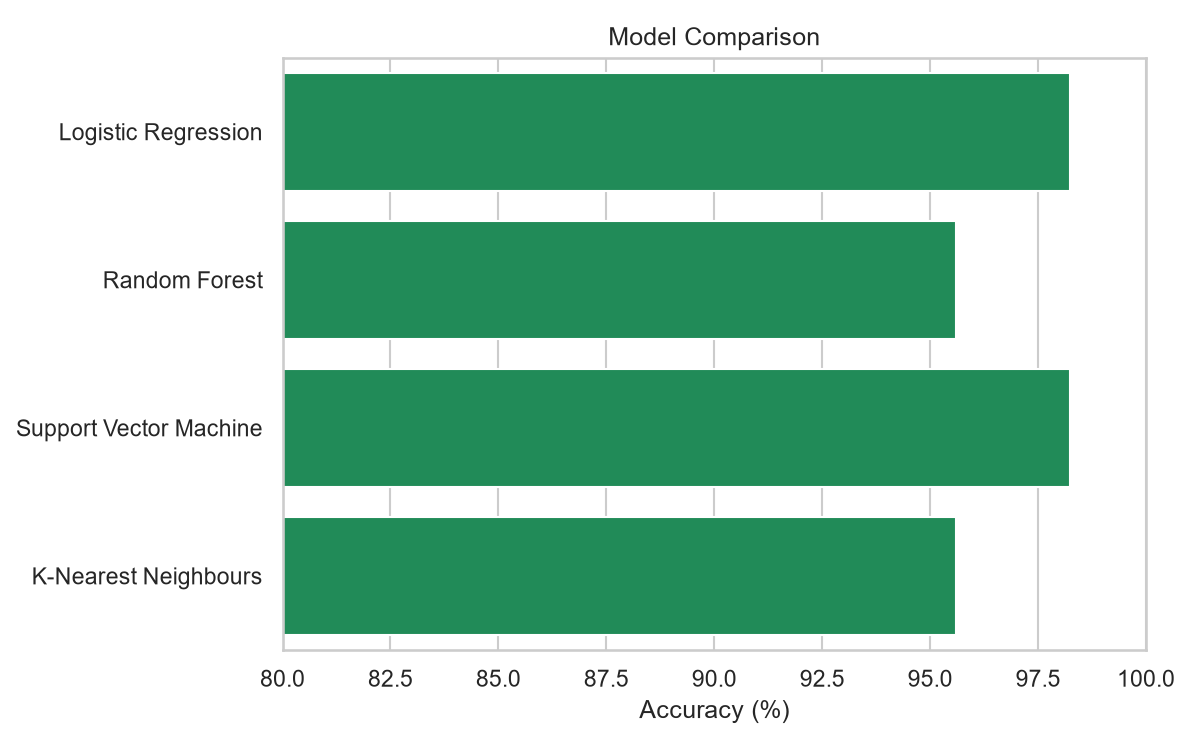
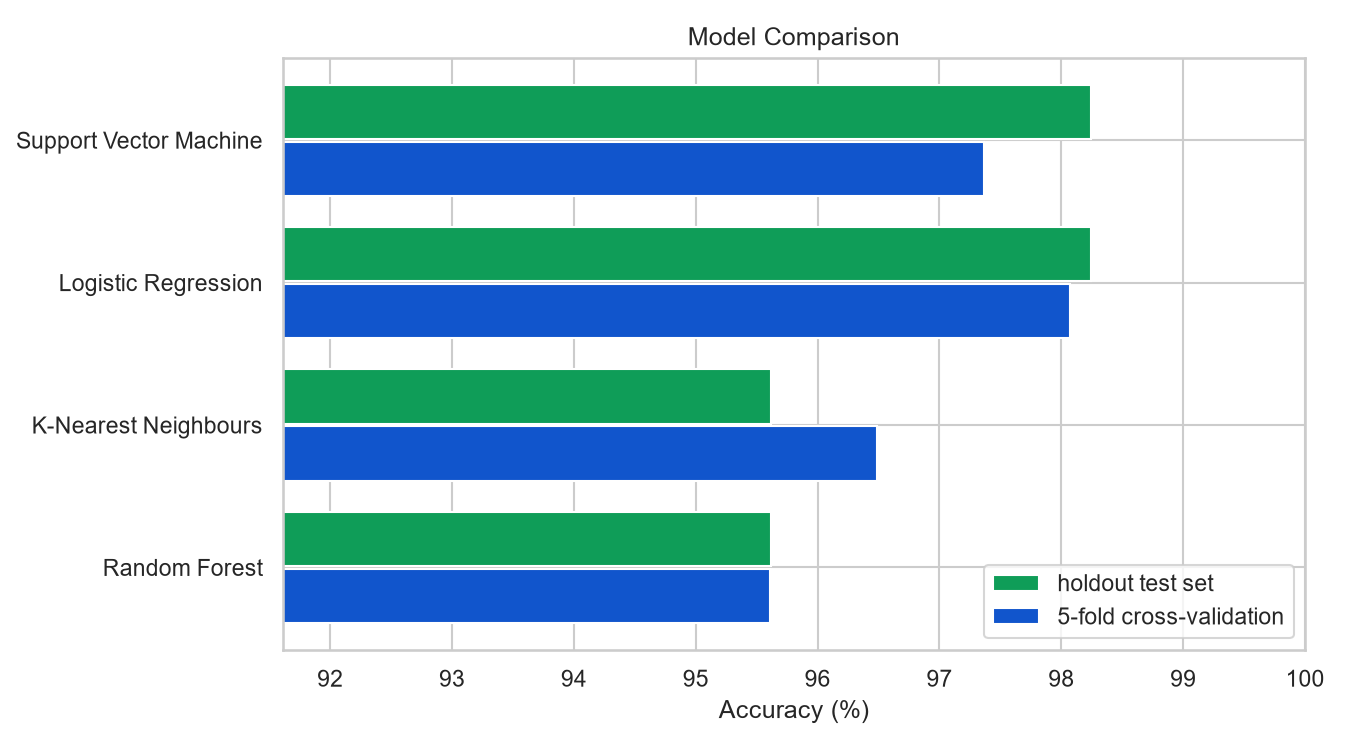
Score every model on precision, recall and F1, not accuracy alone
The comparison only printed accuracy, which is a weak way to rank models on a
114-row test set: one sample is 0.88%, and the split is 42 benign against 72
malignant, so a model that misses malignancies can still look fine.

Precision, recall and F1 are now reported against the malignant class, since
that is the error that costs something, and the table prints all four metrics
per model.

Adds 5-fold cross-validation next to the holdout score. A single split on 114
rows is thin evidence on its own, and the two disagree: Support Vector Machine
ties Logistic Regression at 98.25% on the holdout but drops to 97.36% +/- 1.47
across folds, while Logistic Regression holds at 98.07% +/- 0.65. That is now
the stated reason for shipping Logistic Regression, instead of a single number.

Also fixes the comparison chart, which was pinned to xlim(80, 100) and would
have silently clipped any model scoring below 80%. The axis now derives from the
data.

diff --git a/train.py b/train.py
@@ -11,10 +11,18 @@ import pandas as pd
 import matplotlib.pyplot as plt
 import seaborn as sns
 from sklearn.datasets import load_breast_cancer
-from sklearn.model_selection import train_test_split
+from sklearn.model_selection import cross_val_score, train_test_split
+from sklearn.pipeline import make_pipeline
 from sklearn.preprocessing import StandardScaler
 from sklearn.linear_model import LogisticRegression
-from sklearn.metrics import accuracy_score, classification_report, confusion_matrix
+from sklearn.metrics import (
+    accuracy_score,
+    classification_report,
+    confusion_matrix,
+    f1_score,
+    precision_score,
+    recall_score,
+)
 
 sns.set_theme(style="whitegrid")
 
@@ -116,18 +124,72 @@ models = {
 }
 
 print("\n=========== MODEL COMPARISON ===========")
+print(
+    f"{'Model':<24}{'Accuracy':>10}{'Precision':>11}{'Recall':>9}{'F1':>8}{'CV acc':>16}"
+)
+
 results = {}
 for name, clf in models.items():
     clf.fit(X_train_scaled, y_train)
-    score = accuracy_score(y_test, clf.predict(X_test_scaled))
-    results[name] = round(score * 100, 2)
-    print(f"{name}: {round(score * 100, 2)}%")
+    y_pred_model = clf.predict(X_test_scaled)
 
-plt.figure(figsize=(8, 5))
-sns.barplot(x=list(results.values()), y=list(results.keys()), color="#0f9d58")
-plt.xlabel("Accuracy (%)")
-plt.xlim(80, 100)
-plt.title("Model Comparison")
+    acc = accuracy_score(y_test, y_pred_model)
+    # precision/recall/f1 are scored against the malignant class, which is the
+    # one that matters: a miss here is the costly error.
+    prec = precision_score(y_test, y_pred_model, pos_label=1)
+    rec = recall_score(y_test, y_pred_model, pos_label=1)
+    f1 = f1_score(y_test, y_pred_model, pos_label=1)
+
+    # A single 114-row test set moves by 0.88% per sample, so the holdout score
+    # alone is thin evidence. Cross-validation gives a mean with a spread.
+    cv_scores = cross_val_score(
+        make_pipeline(StandardScaler(), clf), X, y, cv=5, scoring="accuracy"
+    )
+
+    results[name] = {
+        "accuracy": acc,
+        "precision": prec,
+        "recall": rec,
+        "f1": f1,
+        "cv_mean": cv_scores.mean(),
+        "cv_std": cv_scores.std(),
+    }
+
+    print(
+        f"{name:<24}{acc * 100:>9.2f}%{prec * 100:>10.2f}%{rec * 100:>8.2f}%"
+        f"{f1 * 100:>7.2f}%{cv_scores.mean() * 100:>10.2f} +/- {cv_scores.std() * 100:.2f}"
+    )
+
+# plot accuracy and CV accuracy side by side
+plot_frame = pd.DataFrame(results).T.sort_values("accuracy")
+
+fig, ax = plt.subplots(figsize=(9, 5))
+index = range(len(plot_frame))
+ax.barh(
+    [i + 0.2 for i in index],
+    plot_frame["accuracy"] * 100,
+    height=0.38,
+    color="#0f9d58",
+    label="holdout test set",
+)
+ax.barh(
+    [i - 0.2 for i in index],
+    plot_frame["cv_mean"] * 100,
+    height=0.38,
+    color="#1155cc",
+    label="5-fold cross-validation",
+)
+ax.set_yticks(list(index))
+ax.set_yticklabels(plot_frame.index)
+ax.set_xlabel("Accuracy (%)")
+ax.set_title("Model Comparison")
+ax.legend()
+
+# scale to the data instead of a fixed 80-100 window, which would clip a model
+# that scores worse than 80% and make the chart lie about it
+lowest = min(plot_frame["accuracy"].min(), plot_frame["cv_mean"].min()) * 100
+ax.set_xlim(max(0, lowest - 4), 100)
+
 plt.tight_layout()
 plt.savefig("04_model_comparison.png", dpi=150)
 plt.close("all")
